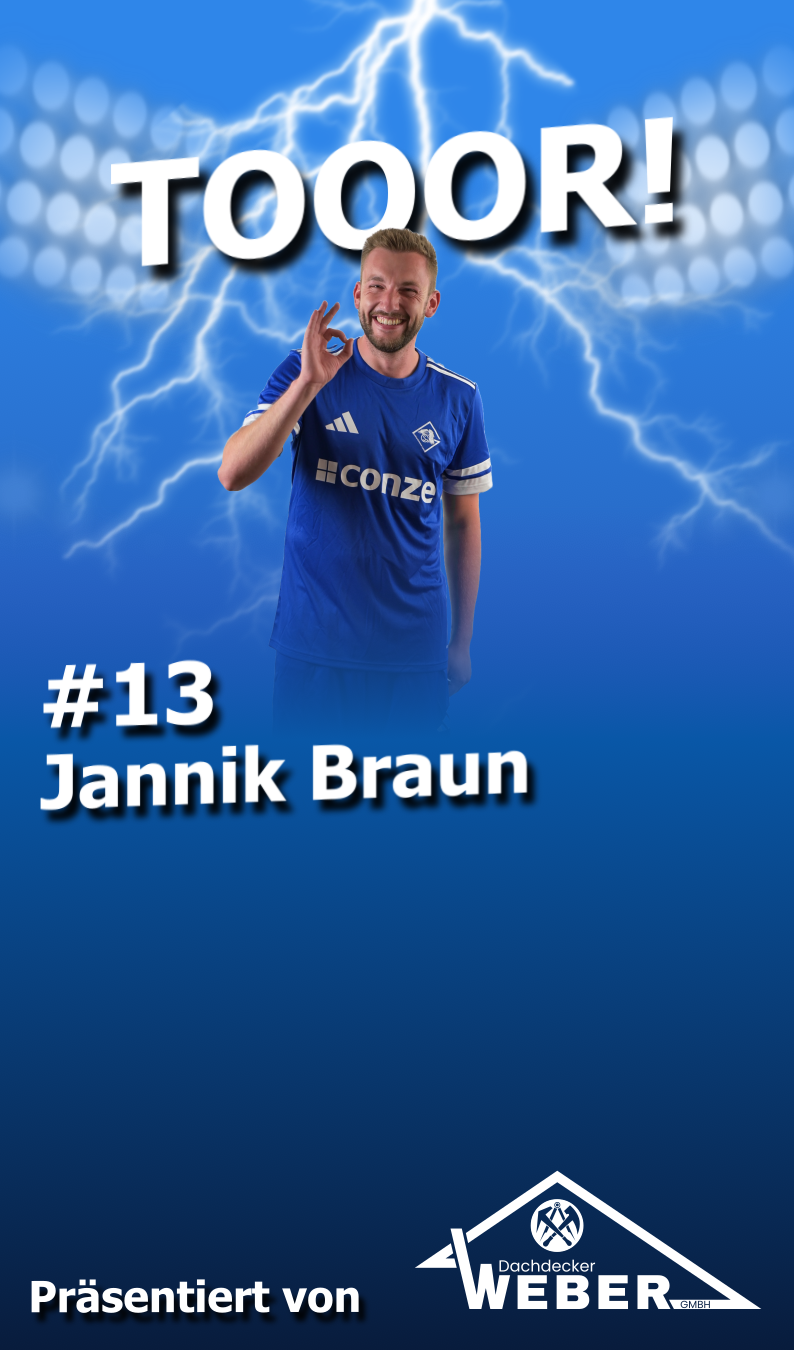
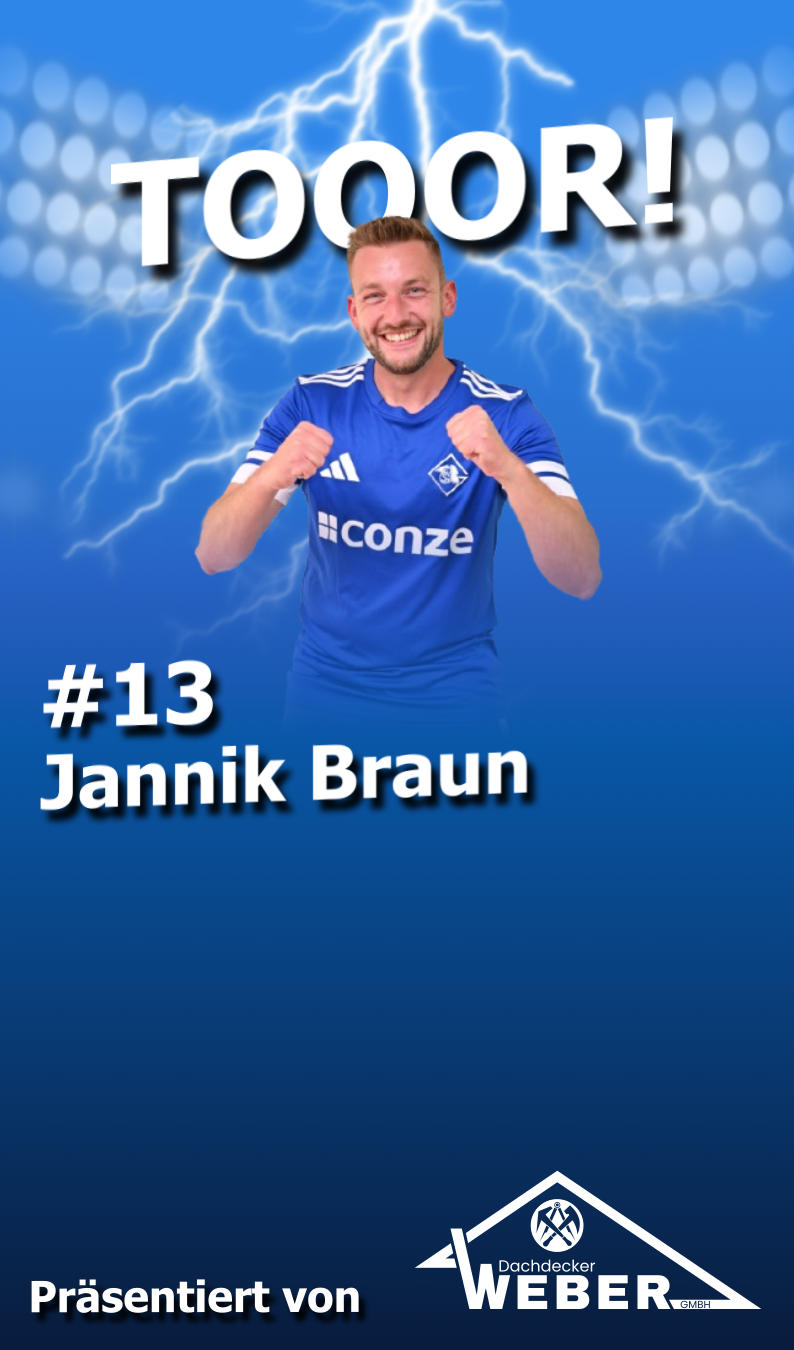
Add new images

Changed region(s): [[0.2418, 0.1556, 0.7557, 0.5289]]

diff --git a/pages/torjubel.html b/pages/torjubel.html
@@ -74,7 +74,6 @@
 	  <option value="tore/5.png">#5 Thilo Stinner</option>
 	  <option value="tore/13.png">#13 Jannik Braun</option>
 	  <option value="tore/18.png">#18 Ben Herr</option>
-	  <option value="tore/14.png">#14 Max Böhmer</option>
 	  <option value="tore/2.png">#2 Robin Kastl</option>
 	  <option value="tore/4.png">#4 Steffen Prinz</option>
 	  <option value="tore/22.png">#22 Michael Becher</option>
@@ -82,7 +81,13 @@
 	  <option value="tore/11.png">#11 Jan Niklas Franken</option>
 	  <option value="tore/10.png">#10 Joshua Brenner</option>
 	  <option value="tore/9.png">#9 Flavio Giehl</option>
-	  <option value="tore/20.png">#20 Pascal Hammer</option>
+	  <option value="tore/20.png">#20 Pascal Hammer</option>	  
+		<option value="tore/1.png">#1 Louis Hommes</option>  
+		<option value="tore/14.png">#14 Julian Kohl</option>  
+		<option value="tore/27.png">#27 Gino Padovano</option>  
+		<option value="tore/7.png">#7 Luca Antonio Groß</option>  
+		<option value="tore/30.png">#30 Michael Trautmann</option>		
+		<option value="tore/12.png">#12 Benedikt Stricker</option>
 	</select>
   <div class="stack">
 	<div class="no-stack">
